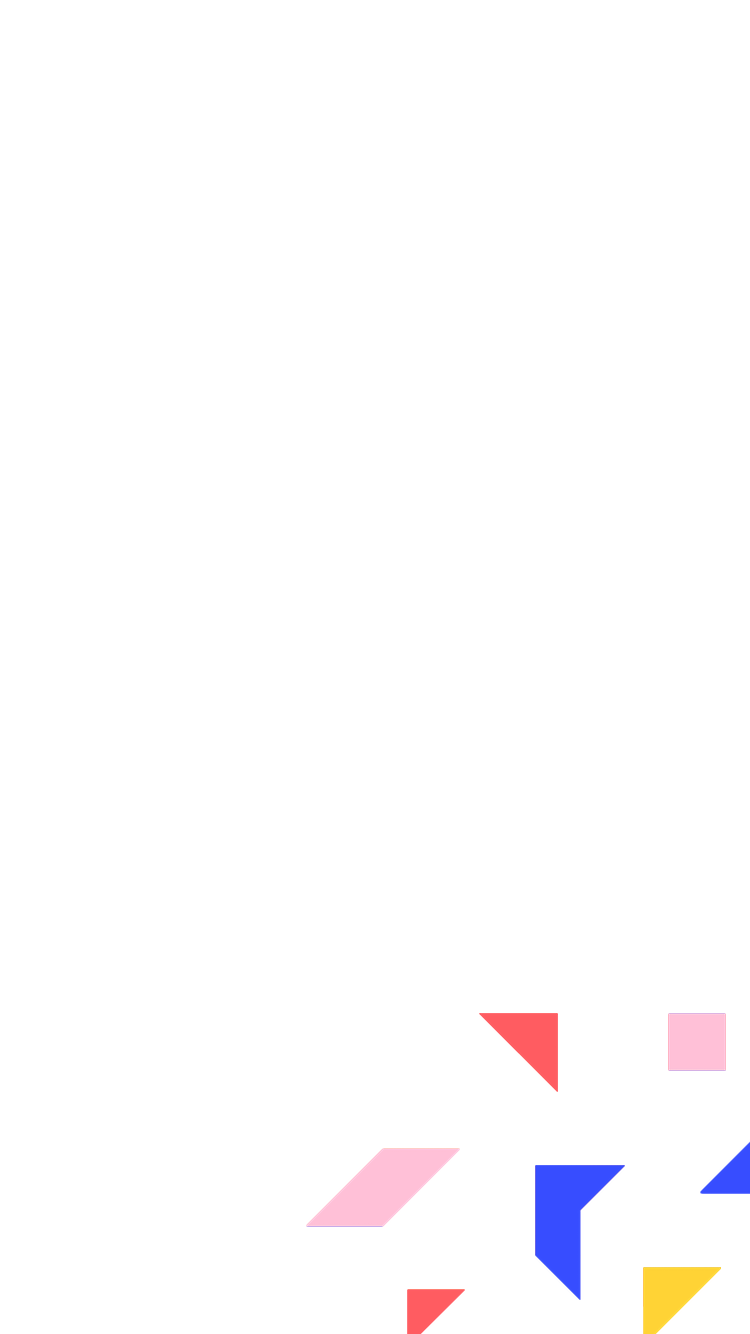
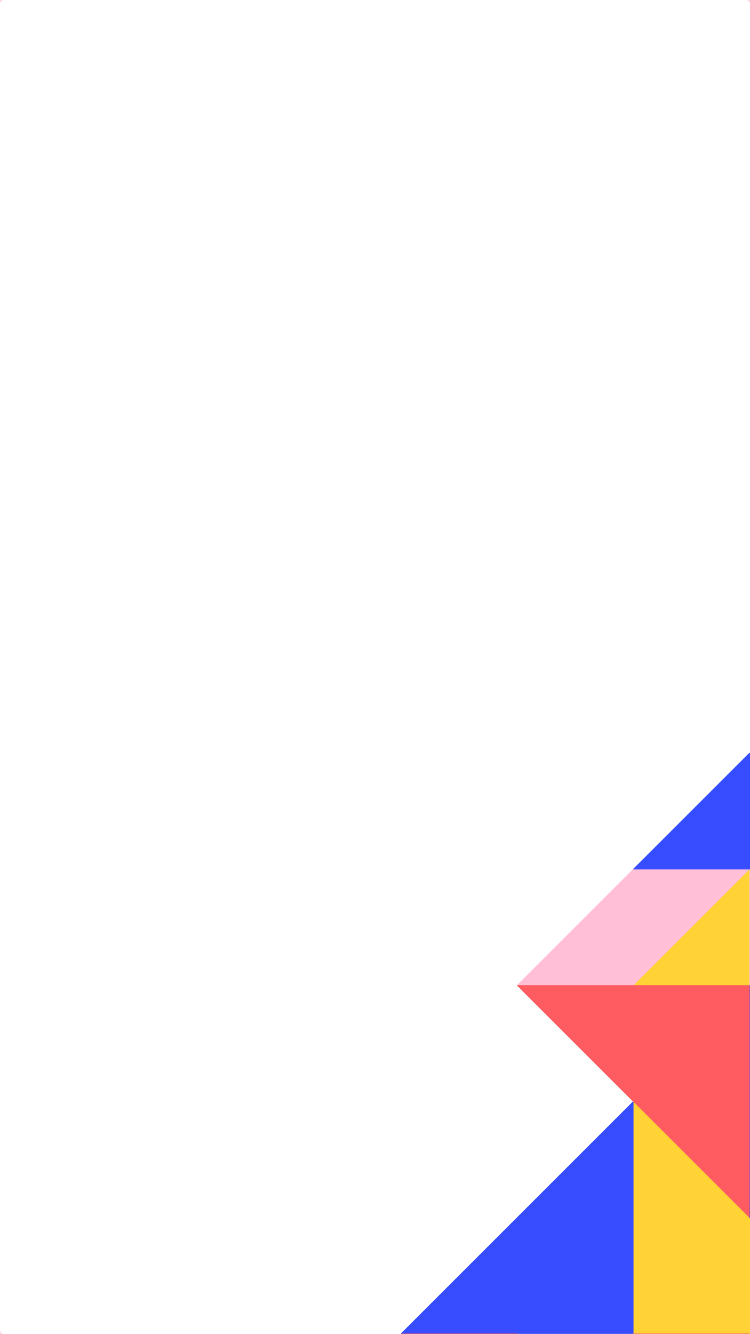
update background. bleh

Changed region(s): [[0.5213, 0.5532, 1.0, 1.0], [0.3987, 0.8606, 0.6133, 0.922]]

diff --git a/App/Containers/LogView.js b/App/Containers/LogView.js
@@ -99,7 +99,7 @@ class LogView extends React.PureComponent {
   render () {
     return (
       <ImageBackground
-        source={require('../Images/backgrounds/photos-background.png')}
+        source={require('../Images/backgrounds/log-background.png')}
         style={styles.backgroundImage}>
         <View style={styles.container}>
           <FlatList
